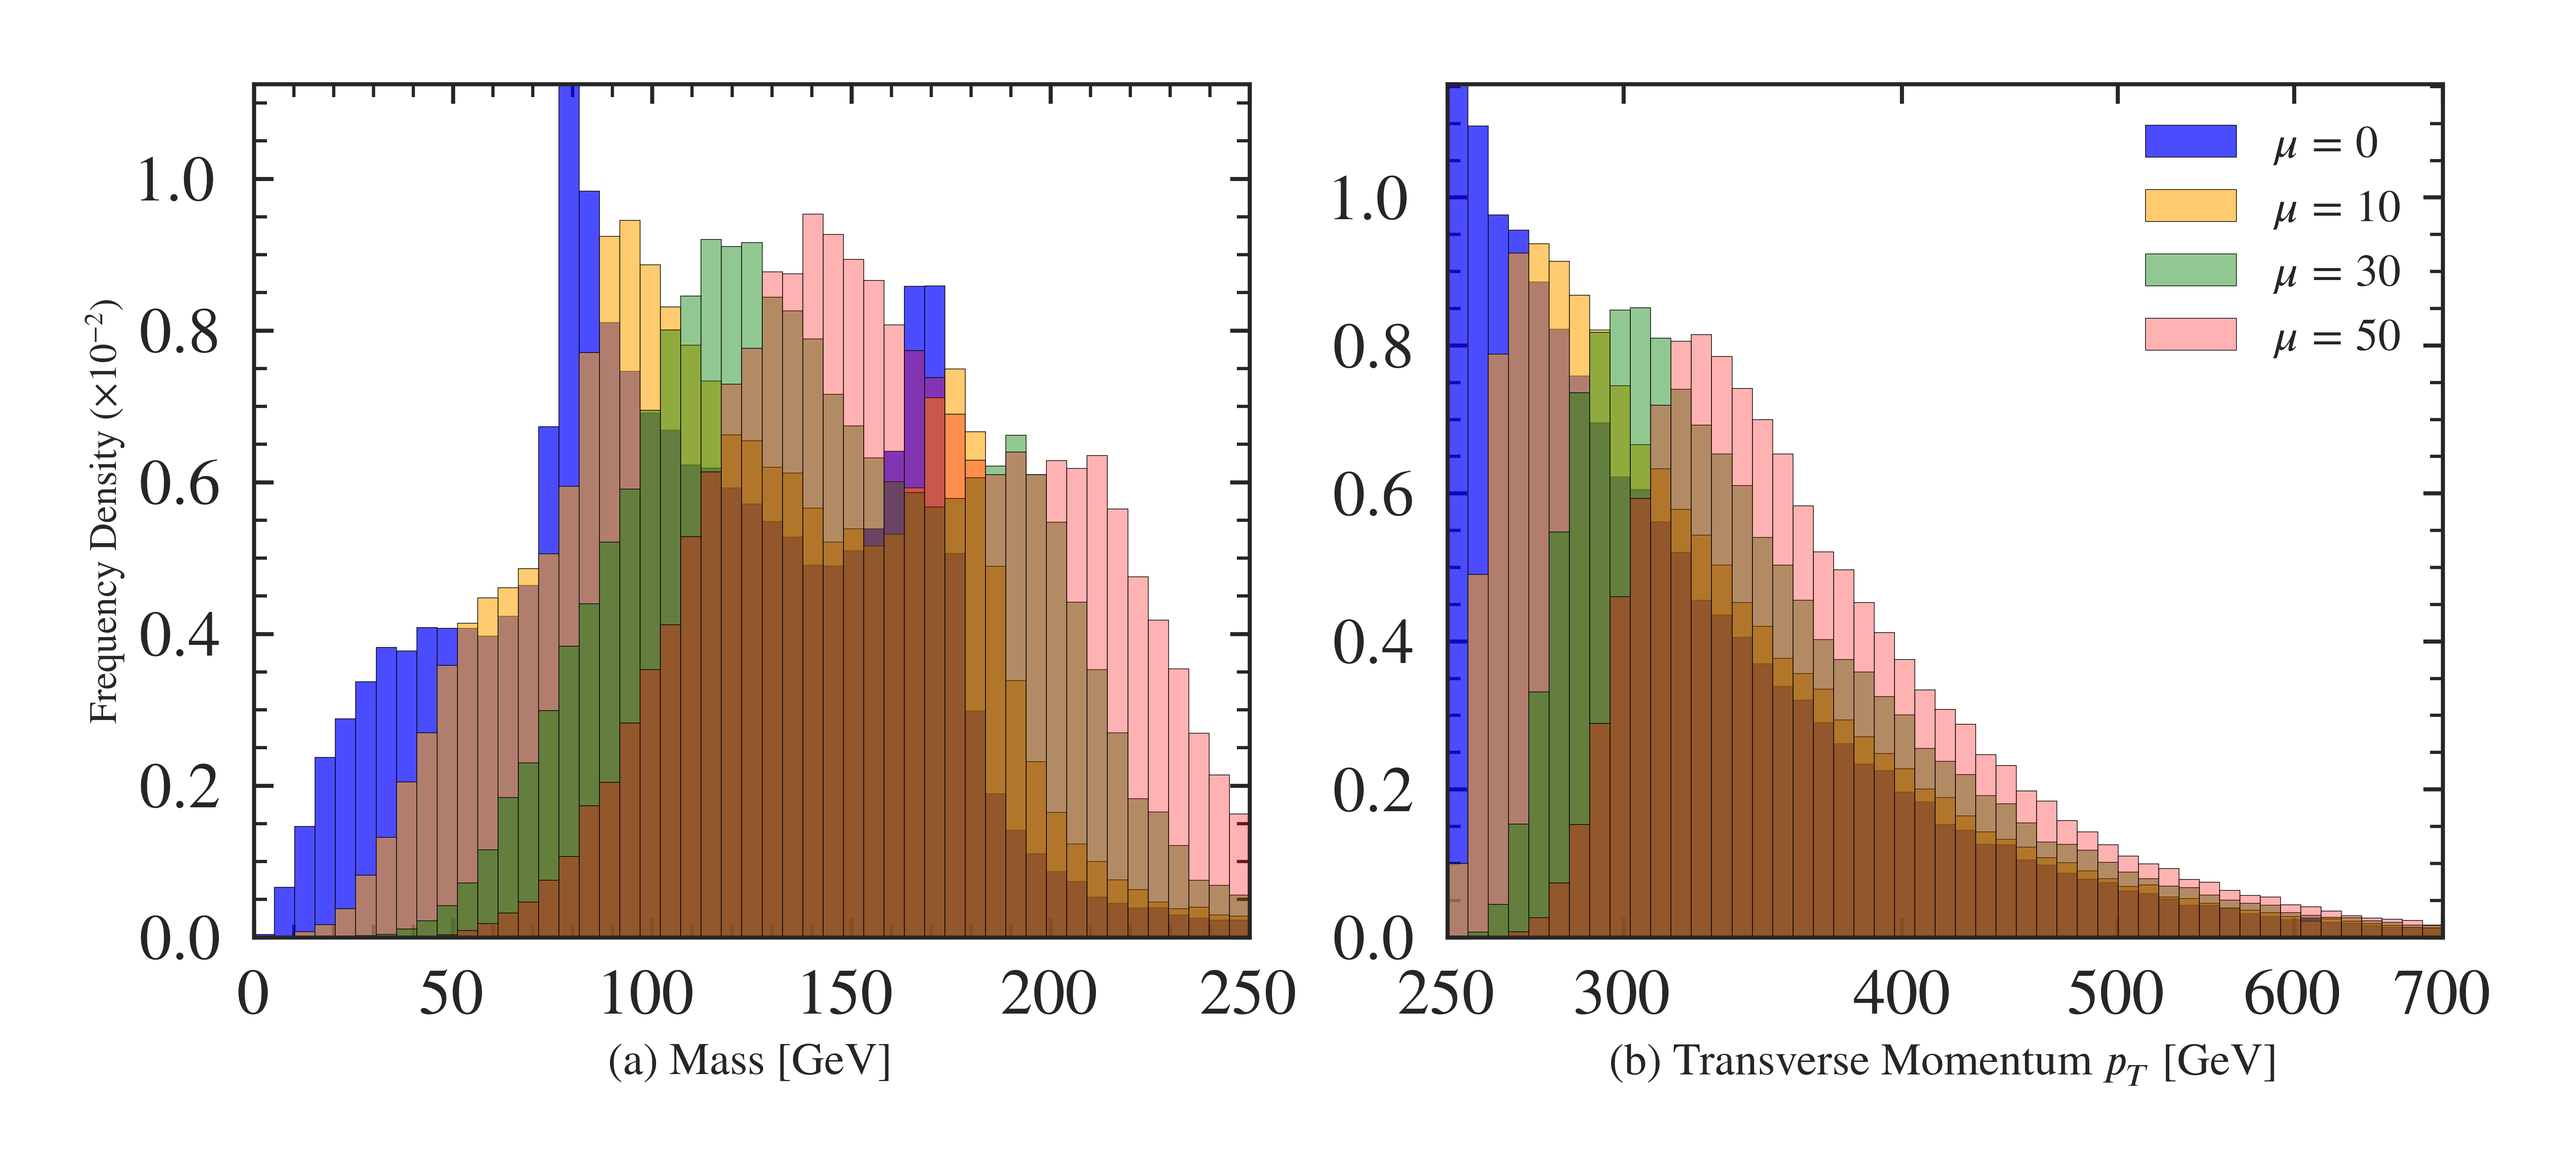
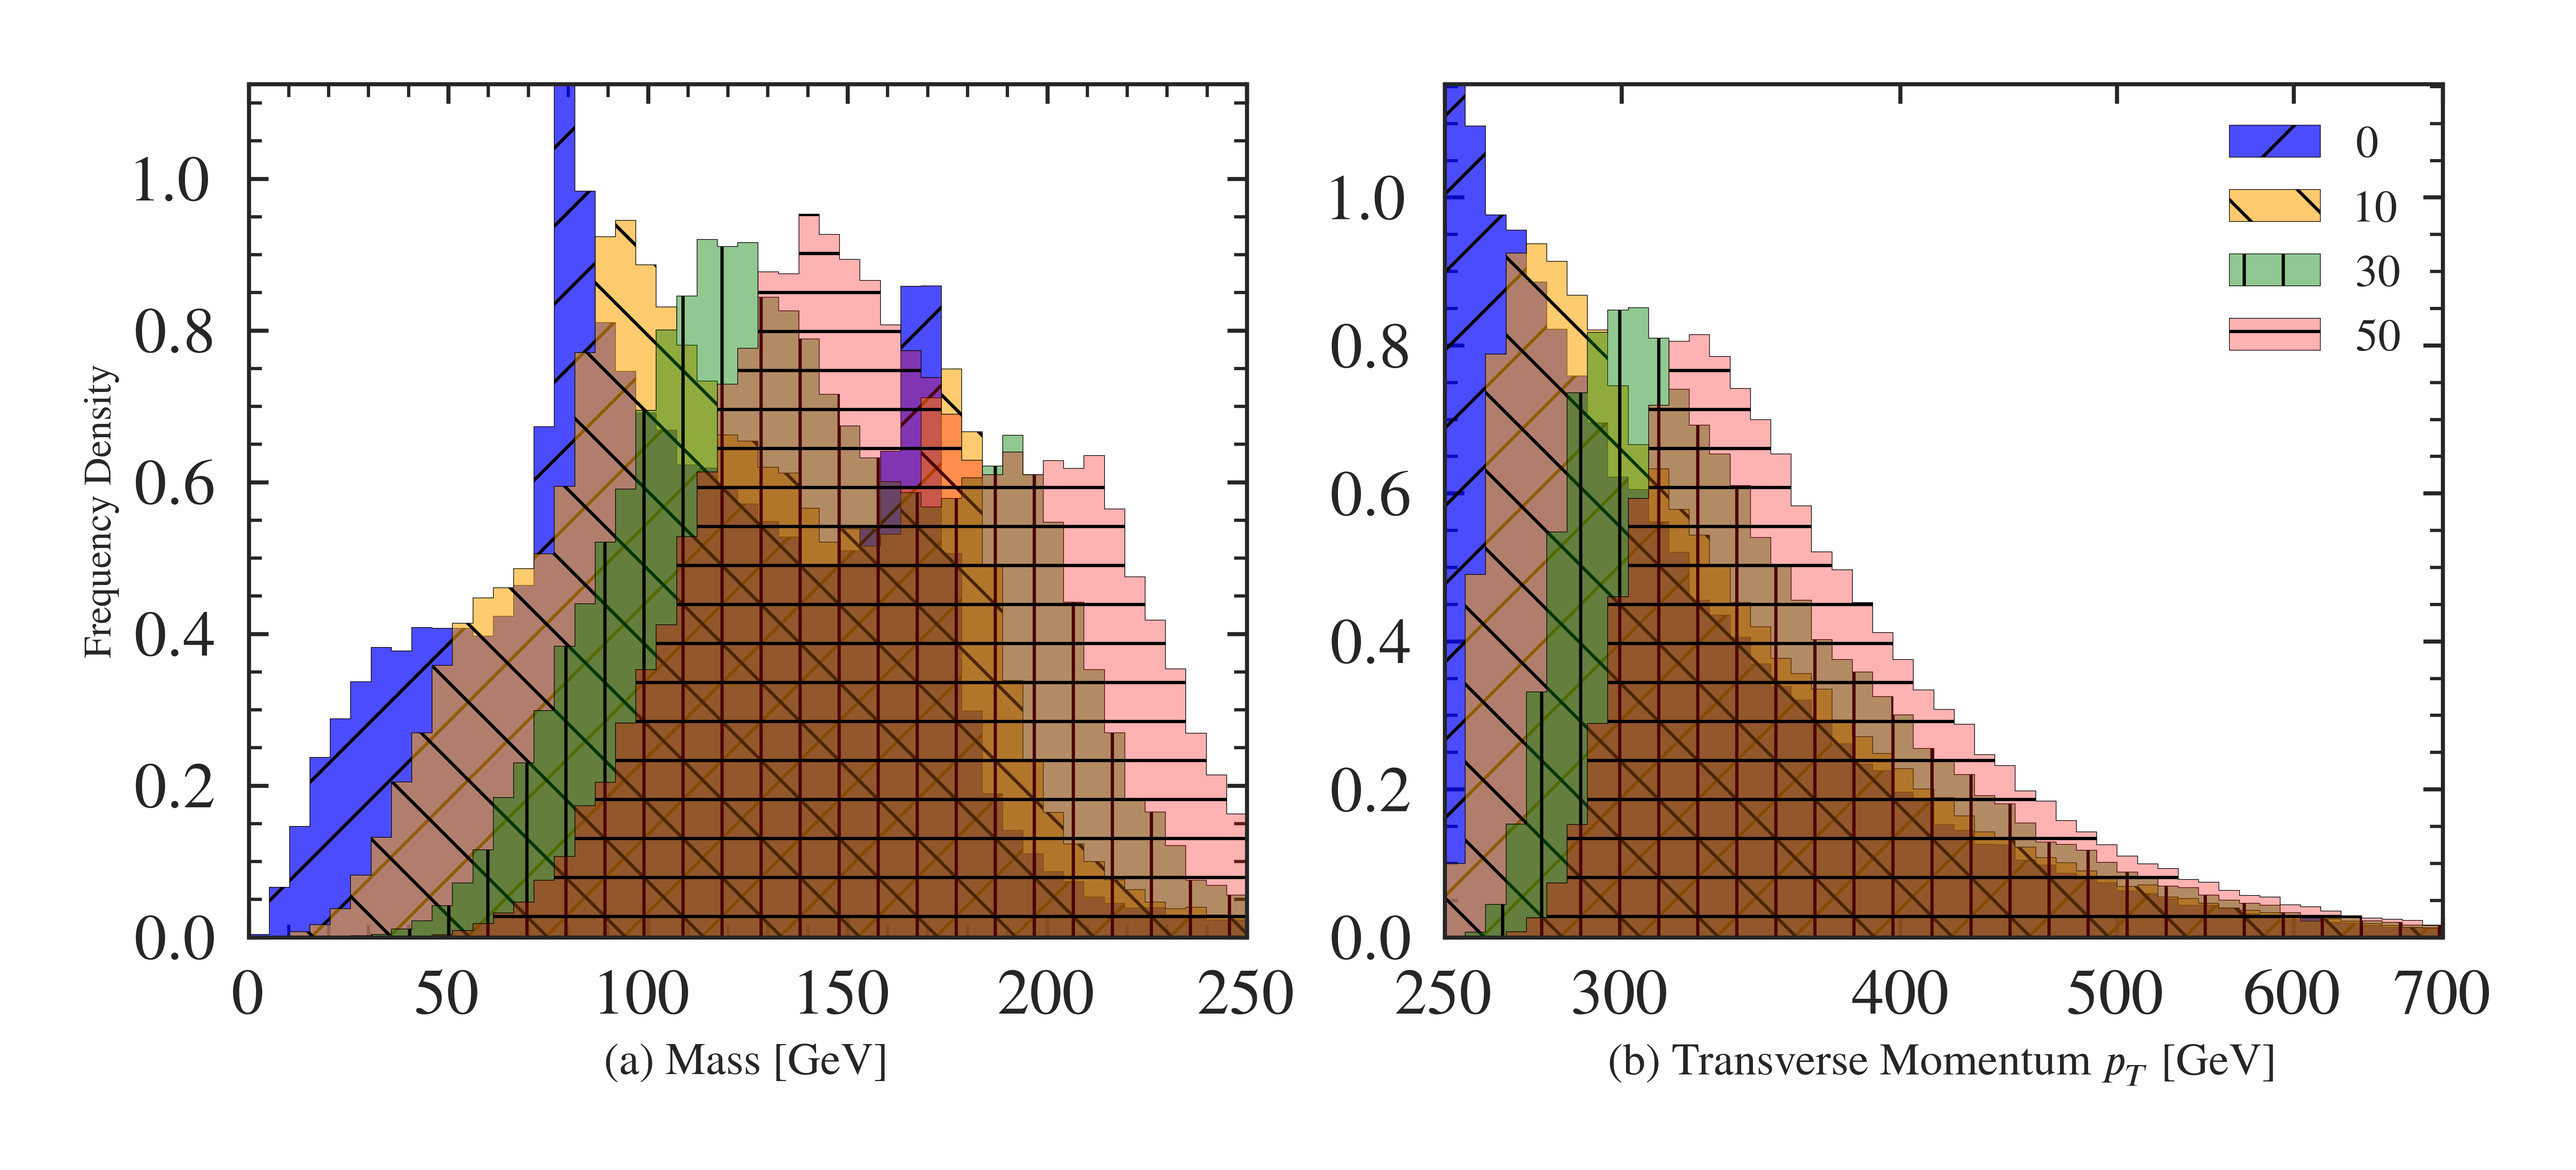
Add hatching to overlaid plots. Regen.

diff --git a/DDPMLHC/main_rs.py b/DDPMLHC/main_rs.py
@@ -56,10 +56,10 @@ mpl.rcParams.update(MPL_GLOBAL_PARAMS)
 
 #################################################################################
 
-# create_overlay_plots([0, 5, 10, 15, 30])
-# create_overlay_plots([0, 10, 30, 50])
-# create_overlay_plots([0, 25, 50, 75, 100], mass_max=300)
-# create_overlay_plots([0, 50, 100, 150, 200], mass_max=400)
+create_overlay_plots([0, 5, 10, 15, 30])
+create_overlay_plots([0, 10, 30, 50])
+create_overlay_plots([0, 25, 50, 75, 100], mass_max=300)
+create_overlay_plots([0, 50, 100, 150, 200], mass_max=400)
 
 #################################################################################
 
@@ -153,13 +153,13 @@ mpl.rcParams.update(MPL_GLOBAL_PARAMS)
 
 #################################################################################
 
-# create_overlay_plots_debin([4,8,16,32])
-# create_overlay_plots_debin([4,16,64,256])
-# create_overlay_plots_debin([4,16,64,256], pure=True)
-# create_overlay_plots_debin([4,8,16,256], pure=True)
-# create_overlay_plots_debin([8,16,256], pure=True)
-# create_overlay_plots_debin([2,4,8])
-# create_overlay_plots_debin([2,4,8,256], pure=True)
+create_overlay_plots_debin([4,8,16,32])
+create_overlay_plots_debin([4,16,64,256])
+create_overlay_plots_debin([4,16,64,256], pure=True)
+create_overlay_plots_debin([4,8,16,256], pure=True)
+create_overlay_plots_debin([8,16,256], pure=True)
+create_overlay_plots_debin([2,4,8])
+create_overlay_plots_debin([2,4,8,256], pure=True)
 
 #################################################################################
 
@@ -247,14 +247,14 @@ mpl.rcParams.update(MPL_GLOBAL_PARAMS)
 
 #################################################################################
 
-# files = [
-#     f"{CWD}/data/2-intermediate/noisy_mu0_event_level.csv",
-#     f"{CWD}/data/3-grid/mu0/noisy_mu{0}_event_level_from_grid{64}.csv",
-#     f"{CWD}/data/2-intermediate/noisy_mu200_event_level.csv",
-#     f"{CWD}/data/4-reconstruction/beta001/reconstructed_mu200_event_level_from_grid64_Unet64.csv",
-# ]
-# labels = ["Original", "Best case", "Noisy", "Denoised"]
-# create_overlay_plots_general(files, labels, mass_max=350)
+files = [
+    f"{CWD}/data/2-intermediate/noisy_mu0_event_level.csv",
+    f"{CWD}/data/3-grid/mu0/noisy_mu{0}_event_level_from_grid{64}.csv",
+    f"{CWD}/data/2-intermediate/noisy_mu200_event_level.csv",
+    f"{CWD}/data/4-reconstruction/beta001/reconstructed_mu200_event_level_from_grid64_Unet64.csv",
+]
+labels = ["Original", "Best case", "Noisy", "Denoised"]
+create_overlay_plots_general(files, labels, mass_max=350)
 
 #################################################################################
 
@@ -264,49 +264,47 @@ mpl.rcParams.update(MPL_GLOBAL_PARAMS)
 
 #################################################################################
 
-# Plot model output resplots
-best_case_path = f"{CWD}/data/3-grid/mu0/noisy_mu0_event_level_from_grid{16}.csv"
+# # Plot model output resplots
+# best_case_path = f"{CWD}/data/3-grid/mu0/noisy_mu0_event_level_from_grid{16}.csv"
 
-binsbeta = [
-    (32, "001", False, "(a)", "(b)"),
-    (32, "0.5", False, "(c)", "(d)"),
-    (64, "001", False, "(e)", "(f)"),
-    (64, "0.5", True, "(g)", "(h)"),
-]
+# binsbeta = [
+#     (32, "001", False, "(a)", "(b)"),
+#     (32, "0.5", False, "(c)", "(d)"),
+#     (64, "001", False, "(e)", "(f)"),
+#     (64, "0.5", True, "(g)", "(h)"),
+# ]
 
-for x in binsbeta:
-    bins, beta, show_subtit = x[0], x[1], x[2]
-    mass_text, pT_text = x[3], x[4]
+# for x in binsbeta:
+#     bins, beta, show_subtit = x[0], x[1], x[2]
+#     mass_text, pT_text = x[3], x[4]
     
-    reconstructed_path = f"{CWD}/data/4-reconstruction/beta{beta}/reconstructed_mu{200}_event_level_from_grid{bins}_Unet{UNET_DIMS}.csv"
+#     reconstructed_path = f"{CWD}/data/4-reconstruction/beta{beta}/reconstructed_mu{200}_event_level_from_grid{bins}_Unet{UNET_DIMS}.csv"
     
-    # Second plot - comparison against best case
-    noisy_binned = f"{CWD}/data/2-intermediate/noisy_mu200_event_level_grid{bins}.csv"
-    mass_resolutions_best = {
-        "Noisy ($\mu=200$)": load_variable_data(noisy_binned, "mass", truth_path=best_case_path),
-        "Denoised": load_variable_data(reconstructed_path, "mass", truth_path=best_case_path)
-    }
+#     # Second plot - comparison against best case
+#     noisy_binned = f"{CWD}/data/2-intermediate/noisy_mu200_event_level_grid{bins}.csv"
+#     mass_resolutions_best = {
+#         "Noisy ($\mu=200$)": load_variable_data(noisy_binned, "mass", truth_path=best_case_path),
+#         "Denoised": load_variable_data(reconstructed_path, "mass", truth_path=best_case_path)
+#     }
 
-    pt_resolutions_best = {
-        "Noisy ($\mu=200$)": load_variable_data(noisy_binned, "p_T", truth_path=best_case_path),
-        "Denoised": load_variable_data(reconstructed_path, "p_T", truth_path=best_case_path)
-    }
+#     pt_resolutions_best = {
+#         "Noisy ($\mu=200$)": load_variable_data(noisy_binned, "p_T", truth_path=best_case_path),
+#         "Denoised": load_variable_data(reconstructed_path, "p_T", truth_path=best_case_path)
+#     }
 
-    rt=f"{CWD}/data/plots/relative_resolutions/rs_ver/"
-    os.makedirs(rt, exist_ok=True)
-    plot_resolutions(
-        mass_resolutions_best, pt_resolutions_best,
-        colors={
-            "Noisy ($\mu=200$)": "red",
-            "Denoised": "blue"
-        },
-        save_path = f"{rt}/resolution_grid{bins}_Unet{UNET_DIMS}_mass_beta{beta}.pdf",
-        legend_title=f"Parameters\n$b={bins}$, $\\beta={beta}$",
-        show_subtit=show_subtit,
-        mass_text=mass_text,
-        pT_text=pT_text,
-    )
-
-
+#     rt=f"{CWD}/data/plots/relative_resolutions/rs_ver/"
+#     os.makedirs(rt, exist_ok=True)
+#     plot_resolutions(
+#         mass_resolutions_best, pt_resolutions_best,
+#         colors={
+#             "Noisy ($\mu=200$)": "red",
+#             "Denoised": "blue"
+#         },
+#         save_path = f"{rt}/resolution_grid{bins}_Unet{UNET_DIMS}_mass_beta{beta}.pdf",
+#         legend_title=f"Parameters\n$b={bins}$, $\\beta={beta}$",
+#         show_subtit=show_subtit,
+#         mass_text=mass_text,
+#         pT_text=pT_text,
+#     )
 
 #################################################################################

diff --git a/DDPMLHC/generate_plots/overlaid_1d.py b/DDPMLHC/generate_plots/overlaid_1d.py
@@ -5,69 +5,70 @@ import matplotlib.pyplot as plt
 import seaborn as sb
 from pathlib import Path
 from DDPMLHC.config import *
+from DDPMLHC.generate_plots.overlaid_general import plot_combined_histograms_with_overlay
 
 mpl.rcParams.update(MPL_GLOBAL_PARAMS)
 
-def plot_combined_histograms_with_overlay(hist_data_list, mu_values, save_path):
-    """Plot mass and p_T for multiple mu values."""
-    colors = ['blue', 'orange', 'green', 'red', 'purple'][:len(mu_values)]
-    alphas = np.linspace(0.7, 0.3, len(mu_values))
+# def plot_combined_histograms_with_overlay(hist_data_list, mu_values, save_path):
+#     """Plot mass and p_T for multiple mu values."""
+#     colors = ['blue', 'orange', 'green', 'red', 'purple'][:len(mu_values)]
+#     alphas = np.linspace(0.7, 0.3, len(mu_values))
     
-    fig, axes = plt.subplots(1, 2, figsize=(11, 5))
-    first_dataset = hist_data_list[0]
+#     fig, axes = plt.subplots(1, 2, figsize=(11, 5))
+#     first_dataset = hist_data_list[0]
     
-    for idx, ax in enumerate(axes):
-        entry_ref = first_dataset[idx]
-        plot_params_ref = entry_ref.get("plot_params", {}).copy()
+#     for idx, ax in enumerate(axes):
+#         entry_ref = first_dataset[idx]
+#         plot_params_ref = entry_ref.get("plot_params", {}).copy()
         
-        # Extract parameters needed for bin calculation
-        xlog = plot_params_ref.pop("xlog", False)
-        x_min = plot_params_ref.pop("x_min", None)
-        x_max = plot_params_ref.pop("x_max", None)
-        bins = plot_params_ref.pop("bins", 50)
+#         # Extract parameters needed for bin calculation
+#         xlog = plot_params_ref.pop("xlog", False)
+#         x_min = plot_params_ref.pop("x_min", None)
+#         x_max = plot_params_ref.pop("x_max", None)
+#         bins = plot_params_ref.pop("bins", 50)
         
-        # Calculate common bin edges for this axis
-        if xlog:
-            bin_edges = np.logspace(np.log10(x_min or 1), np.log10(x_max), bins)
-        else:
-            bin_edges = np.linspace(x_min, x_max, bins)
+#         # Calculate common bin edges for this axis
+#         if xlog:
+#             bin_edges = np.logspace(np.log10(x_min or 1), np.log10(x_max), bins)
+#         else:
+#             bin_edges = np.linspace(x_min, x_max, bins)
         
-        for hist_data, mu, color, alpha in zip(hist_data_list, mu_values, colors, alphas):
-            entry = hist_data[idx]
-            sb.histplot(entry["data"], ax=ax, stat="density",
-                       bins=bin_edges, color=color, 
-                       label=f"$\\mu={mu}$", alpha=alpha,
-                       edgecolor='black', linewidth=0.2)
+#         for hist_data, mu, color, alpha in zip(hist_data_list, mu_values, colors, alphas):
+#             entry = hist_data[idx]
+#             sb.histplot(entry["data"], ax=ax, stat="density",
+#                        bins=bin_edges, color=color, 
+#                        label=f"$\\mu={mu}$", alpha=alpha,
+#                        edgecolor='black', linewidth=0.2)
         
-        if xlog:
-            ax.set_xscale("log")
-            if idx == 1:  # For p_T plot
-                ax.xaxis.set_major_formatter(mpl.ticker.ScalarFormatter())
-                ax.xaxis.set_major_locator(mpl.ticker.LogLocator(base=10.0, numticks=5))
-                ax.set_xticks([250, 300, 400, 500, 600, 700])
+#         if xlog:
+#             ax.set_xscale("log")
+#             if idx == 1:  # For p_T plot
+#                 ax.xaxis.set_major_formatter(mpl.ticker.ScalarFormatter())
+#                 ax.xaxis.set_major_locator(mpl.ticker.LogLocator(base=10.0, numticks=5))
+#                 ax.set_xticks([250, 300, 400, 500, 600, 700])
                 
-        ax.set_xlim(left=x_min, right=x_max)
-        ax.ticklabel_format(axis="y", style="sci", scilimits=(0,0), useMathText=True)
-        ax.yaxis.offsetText.set_visible(False)  # Hide the offset text at the top
-        ax.set_xlabel(entry_ref["name"], fontsize=14)
+#         ax.set_xlim(left=x_min, right=x_max)
+#         ax.ticklabel_format(axis="y", style="sci", scilimits=(0,0), useMathText=True)
+#         ax.yaxis.offsetText.set_visible(False)  # Hide the offset text at the top
+#         ax.set_xlabel(entry_ref["name"], fontsize=14)
         
-        # Set y-label with scale factor included
-        if idx == 0:
-            ax.set_ylabel("Frequency Density ($\\times 10^{-2}$)", fontsize=12)
-        else:
-            ax.set_ylabel("")
-            ax.legend(fontsize=14, frameon=False)  # Only show legend for p_T plot
+#         # Set y-label with scale factor included
+#         if idx == 0:
+#             ax.set_ylabel("Frequency Density ($\\times 10^{-2}$)", fontsize=12)
+#         else:
+#             ax.set_ylabel("")
+#             ax.legend(fontsize=14, frameon=False)  # Only show legend for p_T plot
     
-    plt.tight_layout()
-    plt.savefig(f"{save_path}/overlaid_mu_{'_'.join(map(str, mu_values))}", dpi=600)
-    plt.close(fig)
+#     plt.tight_layout()
+#     plt.savefig(f"{save_path}/overlaid_mu_{'_'.join(map(str, mu_values))}", dpi=600)
+#     plt.close(fig)
 
 def create_overlay_plots(mu_values, mass_max=250, save_path=None):
     """Create overlay plots for specified mu values."""
     if len(mu_values) > 5:
         raise ValueError("Maximum 5 mu values supported")
     
-    save_path = save_path or f"{CWD}/data/plots/1D_histograms/overlaid"
+    save_path = save_path or f"{CWD}/data/plots/1D_histograms/overlaid/overlaid_mu_{'_'.join(map(str, mu_values))}"
     Path(save_path).mkdir(parents=True, exist_ok=True)
     
     # Load all datasets and prepare parameters
@@ -88,5 +89,7 @@ def create_overlay_plots(mu_values, mass_max=250, save_path=None):
         "plot_params": param["params"],
         "save_filename": f"event_{param['name'].lower()}_mu{mu}"
     } for param in hist_params] for mu in mu_values]
+
+    # mu_values = [f"$\mu={i}$" for i in mu_values]
     
     plot_combined_histograms_with_overlay(list_of_params_all, mu_values, save_path)

diff --git a/DDPMLHC/generate_plots/overlaid_general.py b/DDPMLHC/generate_plots/overlaid_general.py
@@ -8,10 +8,11 @@ from DDPMLHC.config import *
 
 mpl.rcParams.update(MPL_GLOBAL_PARAMS)
 
-def plot_combined_histograms_with_overlay(hist_data_list, labels, save_path):
+def plot_combined_histograms_with_overlay(hist_data_list, labels, save_path, stat="density", FOOBAR=False):
     """Plot mass and p_T for multiple datasets with custom labels."""
     colors = ['blue', 'orange', 'green', 'red', 'purple'][:len(labels)]
     alphas = np.linspace(0.7, 0.3, len(labels))
+    hatch_patterns = ['/', '\\', '|', '-', '+'][:len(labels)]  # Different hatching patterns
     
     fig, axes = plt.subplots(1, 2, figsize=(11, 5))
     first_dataset = hist_data_list[0]
@@ -32,12 +33,13 @@ def plot_combined_histograms_with_overlay(hist_data_list, labels, save_path):
         else:
             bin_edges = np.linspace(x_min, x_max, bins)
         
-        for hist_data, label, color, alpha in zip(hist_data_list, labels, colors, alphas):
+        for hist_data, label, color, alpha, hatch in zip(hist_data_list, labels, colors, alphas, hatch_patterns):
             entry = hist_data[idx]
-            sb.histplot(entry["data"], ax=ax, stat="count",
+            sb.histplot(entry["data"], ax=ax, stat=stat,
                        bins=bin_edges, color=color, 
                        label=label, alpha=alpha,
-                       edgecolor='black', linewidth=0.2)
+                       edgecolor='black', linewidth=0.2,
+                       hatch=hatch, element="step")  # Add hatching
         
         if xlog:
             ax.set_xscale("log")
@@ -52,13 +54,21 @@ def plot_combined_histograms_with_overlay(hist_data_list, labels, save_path):
         ax.set_xlabel(entry_ref["name"], fontsize=14)
         
         if idx == 0:
-            ax.set_ylabel("Frequency", fontsize=12)
+            if stat == "count":
+                ax.set_ylabel("Frequency", fontsize=12)
+            elif stat == "density":
+                ax.set_ylabel("Frequency Density", fontsize=12)
+            else:
+                raise ValueError
         else:
             ax.set_ylabel("")
-            ax.legend(fontsize=14, frameon=False, bbox_to_anchor=(0.2, 0.6))
+            if FOOBAR:
+                ax.legend(fontsize=14, frameon=False, bbox_to_anchor=(0.2, 0.6))
+            else:
+                ax.legend(fontsize=14, frameon=False)
     
     plt.tight_layout()
-    plt.savefig(f"{save_path}/overlaid_comparison", dpi=600)
+    plt.savefig(f"{save_path}", dpi=600)
     plt.close(fig)
 
 def create_overlay_plots_general(file_paths, labels, mass_max=250, save_path=None):
@@ -79,8 +89,7 @@ def create_overlay_plots_general(file_paths, labels, mass_max=250, save_path=Non
     if len(file_paths) > 5:
         raise ValueError("Maximum 5 datasets supported")
     
-    save_path = save_path or f"{CWD}/data/plots/1D_histograms/overlaid_from_model"
-    Path(save_path).mkdir(parents=True, exist_ok=True)
+    save_path = save_path or f"{CWD}/data/plots/1D_histograms/overlaid_from_model/overlaid_comparison.png"
     
     # Load all datasets
     events_data = {path: np.genfromtxt(path,
@@ -100,4 +109,5 @@ def create_overlay_plots_general(file_paths, labels, mass_max=250, save_path=Non
         "plot_params": param["params"],
     } for param in hist_params] for path in file_paths]
     
-    plot_combined_histograms_with_overlay(list_of_params_all, labels, save_path)
+    plot_combined_histograms_with_overlay(list_of_params_all, labels, save_path, FOOBAR=True, stat="count")
+
